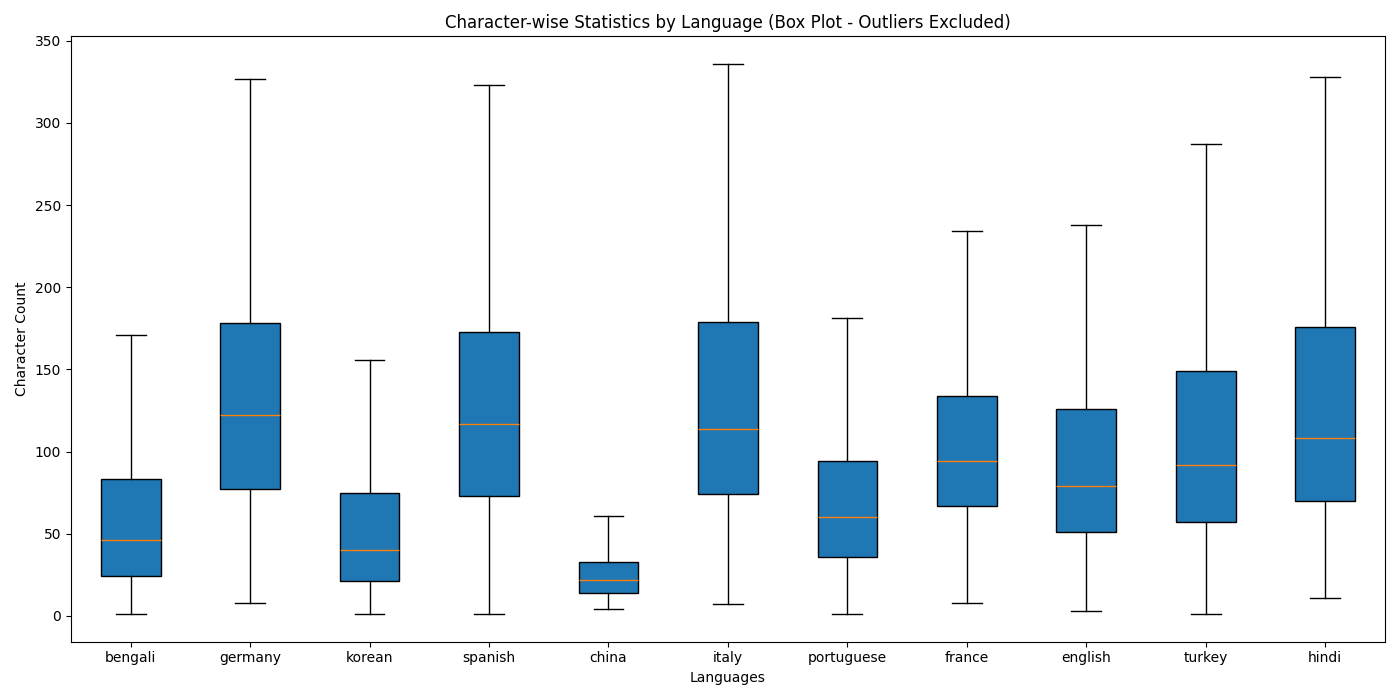
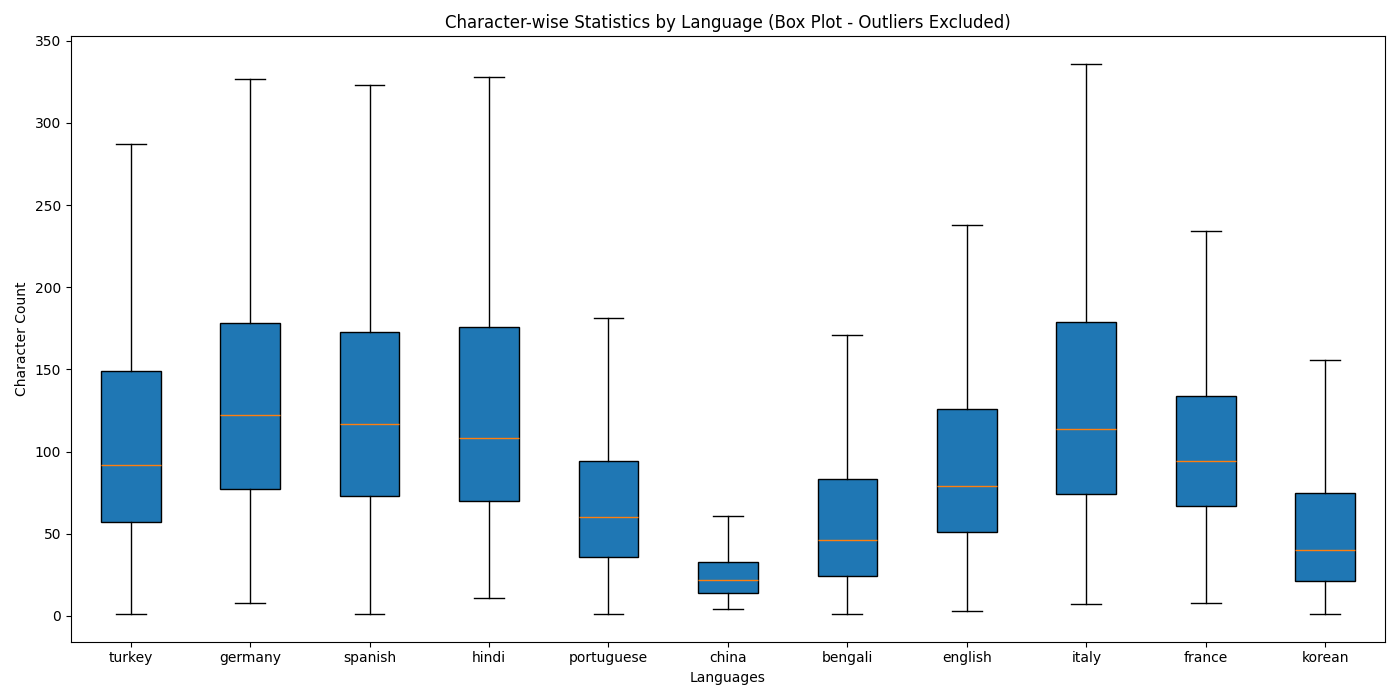
add stats source

diff --git a/gen_stat_data.py b/gen_stat_data.py
@@ -1,0 +1,203 @@
+import json
+from collections import Counter
+import matplotlib.pyplot as plt
+import matplotlib.cm as cm
+import pandas as pd
+import os
+import numpy as np
+
+# Ensure the stats directory exists
+os.makedirs('stats', exist_ok=True)
+
+# Load annotations_translated.json
+with open('annotations_translated.json', 'r', encoding='utf-8') as file:
+    data = json.load(file)
+
+# Filtering records with 'translated' field and ignoring non-string texts
+data = [item for item in data if 'translated' in item and isinstance(item.get('text'), str)]
+
+# Total records
+total_records = len(data)
+
+# Language distribution
+languages = [item['language'] for item in data]
+lang_distribution = Counter(languages)
+
+# Label-wise statistics per language
+label_stats = {'Language': [], 'Label 1': [], 'Label 0': [], 'Total': []}
+for lang in set(languages):
+    lang_data = [item for item in data if item['language'] == lang]
+    label_1 = sum(1 for item in lang_data if item['label'] == 1)
+    label_0 = sum(1 for item in lang_data if item['label'] == 0)
+    label_stats['Language'].append(lang)
+    label_stats['Label 1'].append(label_1)
+    label_stats['Label 0'].append(label_0)
+    label_stats['Total'].append(label_1 + label_0)
+
+# Adding total, min, avg, max rows
+label_stats_df = pd.DataFrame(label_stats)
+label_stats_df = label_stats_df.sort_values(by='Total', ascending=False)
+label_stats_df.loc['Total'] = label_stats_df.sum(numeric_only=True).astype(int)
+label_stats_df.loc['Total', 'Language'] = 'Total'
+label_stats_df.loc['Min'] = label_stats_df.min(numeric_only=True).astype(int)
+label_stats_df.loc['Min', 'Language'] = 'Min'
+label_stats_df.loc['Avg'] = label_stats_df.mean(numeric_only=True).round(1)
+label_stats_df.loc['Avg', 'Language'] = 'Avg'
+label_stats_df.loc['Max'] = label_stats_df.max(numeric_only=True).astype(int)
+label_stats_df.loc['Max', 'Language'] = 'Max'
+label_stats_df.to_csv('stats/label_stats.csv', index=False)
+
+# Character-wise statistics with total columns
+char_stats = []
+for lang in set(languages):
+    texts = [item['text'] for item in data if item['language'] == lang]
+    translated_texts = [item['translated'] for item in data if item['language'] == lang]
+
+    char_stats.append([
+        lang,
+        round(np.mean([len(text) for text in texts]), 1),
+        min(len(text) for text in texts),
+        max(len(text) for text in texts),
+        sum(len(text) for text in texts),
+        round(np.mean([len(text) for text in translated_texts]), 1),
+        min(len(text) for text in translated_texts),
+        max(len(text) for text in translated_texts),
+        sum(len(text) for text in translated_texts)
+    ])
+
+# Character statistics dataframe with total columns
+char_stats_df = pd.DataFrame(char_stats, columns=[
+    'Language', 'Original Text Avg', 'Original Text Min', 'Original Text Max', 'Original Text Total',
+    'Translated Text Avg', 'Translated Text Min', 'Translated Text Max', 'Translated Text Total'
+])
+char_stats_df = char_stats_df.sort_values(by='Original Text Total', ascending=False)
+char_stats_df.loc['Total'] = [
+    'Total',
+    round(char_stats_df['Original Text Avg'].mean(), 1),
+    int(char_stats_df['Original Text Min'].min()),
+    int(char_stats_df['Original Text Max'].max()),
+    int(char_stats_df['Original Text Total'].sum()),
+    round(char_stats_df['Translated Text Avg'].mean(), 1),
+    int(char_stats_df['Translated Text Min'].min()),
+    int(char_stats_df['Translated Text Max'].max()),
+    int(char_stats_df['Translated Text Total'].sum())
+]
+char_stats_df.to_csv('stats/char_stats.csv', index=False)
+
+# Handling outliers in Character-wise Box Plot
+char_lengths = {lang: [len(item['text']) for item in data if item['language'] == lang] for lang in set(languages)}
+plt.figure(figsize=(14, 7))
+plt.boxplot(char_lengths.values(), tick_labels=char_lengths.keys(), patch_artist=True, showfliers=False)
+plt.title('Character-wise Statistics by Language (Box Plot - Outliers Excluded)')
+plt.xlabel('Languages')
+plt.ylabel('Character Count')
+plt.tight_layout()
+plt.savefig('stats/characterwise_boxplot.png')
+
+import matplotlib.cm as cm
+
+# Language Distribution Pie Chart with Larger Labels, Adjusted % and Distinct Colors
+plt.figure(figsize=(10, 10))
+colors = plt.colormaps.get_cmap('tab20')(np.linspace(0, 1, len(lang_distribution)))
+wedges, texts, autotexts = plt.pie(
+    lang_distribution.values(),
+    labels=lang_distribution.keys(),
+    autopct='%1.1f%%',
+    textprops={'fontsize': 16, 'weight': 'bold'},
+    colors=colors,
+    startangle=90
+)
+
+# Adjusting % text positions slightly towards the edge
+for autotext in autotexts:
+    autotext.set_position((autotext.get_position()[0] * 1.1, autotext.get_position()[1] * 1.1))
+
+plt.title('Language Distribution Percentage', fontsize=18)
+plt.tight_layout()
+plt.savefig('stats/language_distribution.png')
+
+
+# Label Distribution Stacked Bar Plot (Fixing Total in Stacked Bar)
+label_stats_df.drop(['Total', 'Min', 'Avg', 'Max']).set_index('Language')[['Label 1', 'Label 0']].plot(
+    kind='bar', stacked=True, figsize=(12, 6)
+)
+
+plt.title('Label Distribution by Language (Stacked)')
+plt.xlabel('Languages')
+plt.ylabel('Count')
+plt.tight_layout()
+plt.savefig('stats/label_distribution_stacked.png')
+
+# Word-wise statistics with min, max, avg, total
+word_stats = []
+for lang in set(languages):
+    texts = [item['text'] for item in data if item['language'] == lang]
+    translated_texts = [item['translated'] for item in data if item['language'] == lang]
+    
+    word_stats.append([
+        lang,
+        len(texts),
+        min(len(text.split()) for text in texts),
+        max(len(text.split()) for text in texts),
+        round(np.mean([len(text.split()) for text in texts]), 1),
+        len(translated_texts),
+        min(len(text.split()) for text in translated_texts),
+        max(len(text.split()) for text in translated_texts),
+        round(np.mean([len(text.split()) for text in translated_texts]), 1)
+    ])
+
+# Word statistics dataframe
+word_stats_df = pd.DataFrame(word_stats, columns=[
+    'Language', 'Original Records', 'Original Words Min', 'Original Words Max', 'Original Words Avg',
+    'Translated Records', 'Translated Words Min', 'Translated Words Max', 'Translated Words Avg'
+])
+
+# Calculating Total Row (on All Records)
+total_texts = [item['text'] for item in data]
+total_translated_texts = [item['translated'] for item in data]
+
+word_stats_df.loc['Total'] = [
+    'Total',
+    len(total_texts),
+    min(len(text.split()) for text in total_texts),
+    max(len(text.split()) for text in total_texts),
+    round(np.mean([len(text.split()) for text in total_texts]), 1),
+    len(total_translated_texts),
+    min(len(text.split()) for text in total_translated_texts),
+    max(len(text.split()) for text in total_translated_texts),
+    round(np.mean([len(text.split()) for text in total_translated_texts]), 1)
+]
+
+word_stats_df = word_stats_df.sort_values(by='Original Records', ascending=False)
+word_stats_df.to_csv('stats/word_stats.csv', index=False)
+
+
+# Language-wise Record Count Statistics
+lang_record_counts = pd.DataFrame.from_dict(lang_distribution, orient='index', columns=['Record Count'])
+lang_record_counts = lang_record_counts.sort_values(by='Record Count', ascending=False)
+lang_record_counts.loc['Total'] = lang_record_counts.sum()
+
+# Saving Record Count CSV
+lang_record_counts.to_csv('stats/language_record_counts.csv')
+
+# Plotting Language-wise Record Counts
+plt.figure(figsize=(12, 6))
+lang_record_counts.drop('Total').plot(kind='bar', legend=False, color='skyblue')
+plt.title('Language-wise Record Counts')
+plt.xlabel('Languages')
+plt.ylabel('Record Count')
+plt.tight_layout()
+plt.savefig('stats/language_record_counts.png')
+
+
+# Generating Word-wise Box Plot (Outliers Excluded)
+word_lengths = {lang: [len(item['text'].split()) for item in data if item['language'] == lang] for lang in set(languages)}
+plt.figure(figsize=(14, 7))
+plt.boxplot(word_lengths.values(), tick_labels=word_lengths.keys(), patch_artist=True, showfliers=False)
+plt.title('Word-wise Statistics by Language (Box Plot - Outliers Excluded)')
+plt.xlabel('Languages')
+plt.ylabel('Word Count')
+plt.tight_layout()
+plt.savefig('stats/wordwise_boxplot.png')
+
+print("✅ All statistics generated and saved under 'stats/' directory.")
